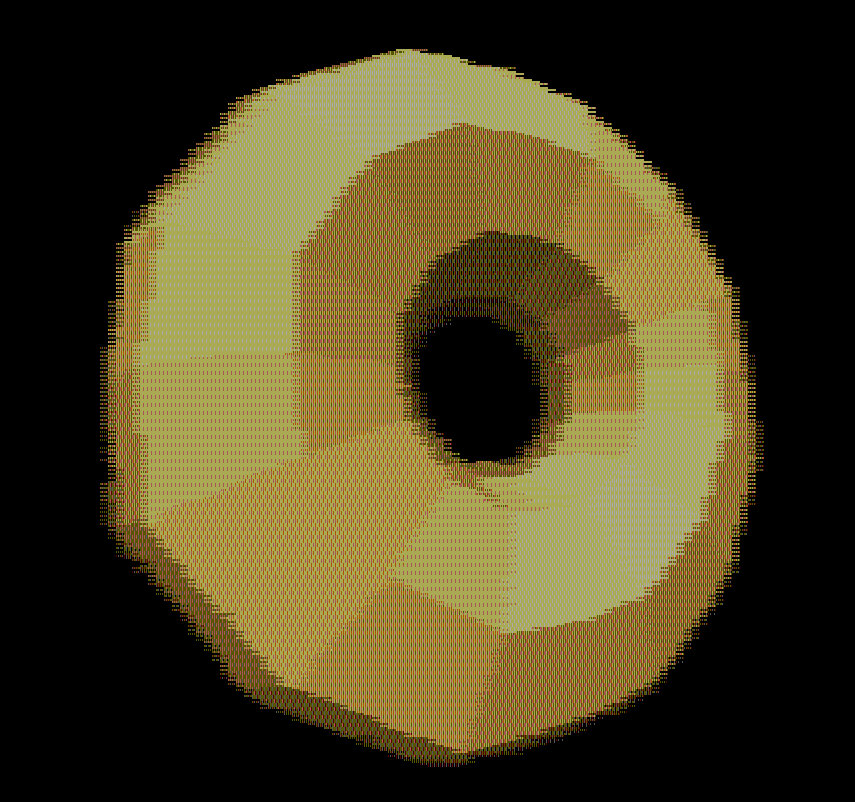
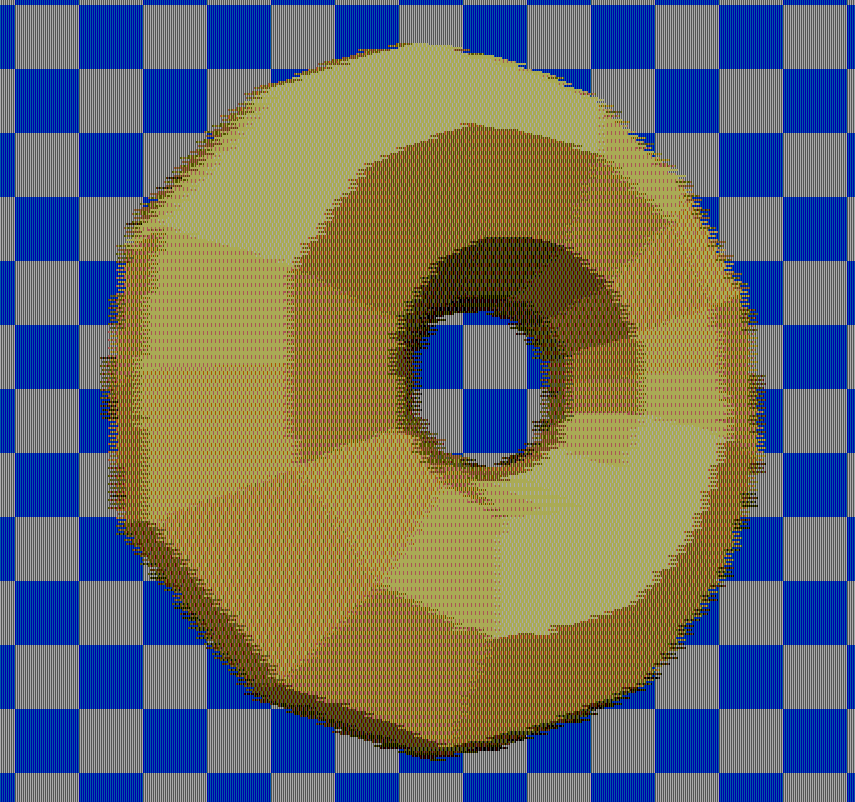
more dithering, checkerboard background

diff --git a/docs/info.md b/docs/info.md
@@ -19,20 +19,22 @@ Like my other demo on tt08, this runs in a weird VGA resolution: 1220x480.
 
 Interestingly, it is not actually rendering any polygons; this is sphere traced
 (AKA raymarched), using a CORDIC unit to calculate the distance between a point
-and the surface of the torus. But, because we don't have much time (we're
-racing the VGA beam!), we do just two CORDIC iterations, which causes the donut
-surface to actually become polyhedral. This trick was [accidentally discovered
-by Bruno Levy](https://x.com/BrunoLevy01/status/1718674786954399798) while
-playing with a C version of my original donut code and I had to try it out in
-Verilog -- so here we are.
+and the surface of the torus. But, because we don't have much time (we're racing
+the VGA beam!), we do just two or three CORDIC iterations, which causes the
+donut surface to actually become polyhedral. This trick was [accidentally
+discovered by Bruno Levy](https://x.com/BrunoLevy01/status/1718674786954399798)
+while playing with a C version of my original donut code and I had to try it out
+in Verilog -- so here we are.
 
 The reason it has such low horizontal resolution is because it's doing 16 ray
-marching steps per "pixel", with four CORDIC iterations unrolled into one clock
-cycle (two iterations for the major axis, and two for the minor axis).
+marching steps per "pixel", with five CORDIC iterations unrolled into one clock
+cycle (three iterations for the major axis, and two for the minor axis).
 
 In order to fit this into 2x2 TinyTapeout tiles, a lot of sacrifices were made;
-for one, it doesn't have a multiplier so the ray steps are by approximate
-orders of magnitude.
+for one, it doesn't have a multiplier so the ray steps are by approximate orders
+of magnitude. New donut "pixels" are rendered every 16 clock cycles, so the demo
+makes heavy use of dithering in both space and time -- the video looks much
+better than the screenshot above.
 
 ## How to test
 
